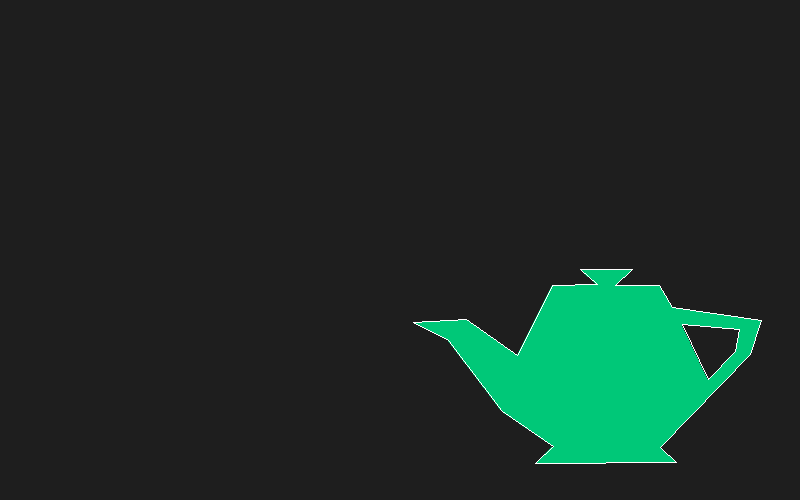
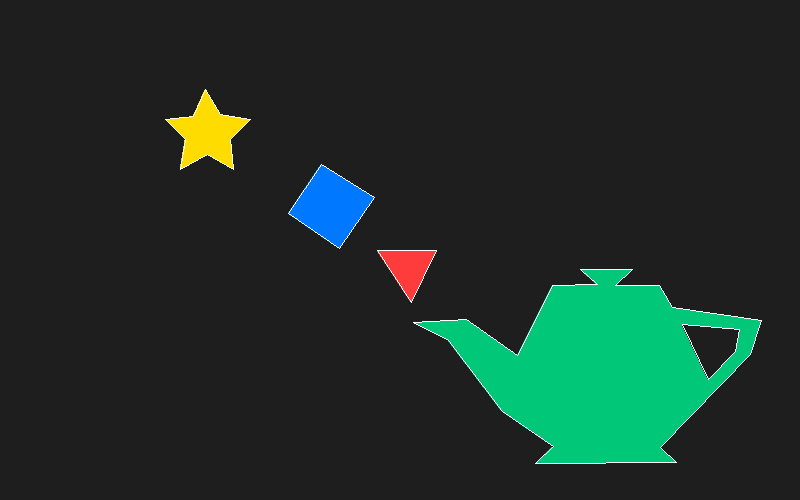
feat: Draw the five polygons together and export to out.bmp

Changed region(s): [[0.3438, 0.33, 0.4688, 0.51], [0.1875, 0.18, 0.3125, 0.33], [0.4688, 0.48, 0.5625, 0.6]]

diff --git a/src/main.rs b/src/main.rs
@@ -16,6 +16,47 @@ fn main() {
     framebuffer.set_background_color(bg);
     framebuffer.clear();
 
+    // Polygon 1
+    let p1: &[Vector2] = &[
+        Vector2::new(165.0, 380.0),
+        Vector2::new(185.0, 360.0),
+        Vector2::new(180.0, 330.0),
+        Vector2::new(207.0, 345.0),
+        Vector2::new(233.0, 330.0),
+        Vector2::new(230.0, 360.0),
+        Vector2::new(250.0, 380.0),
+        Vector2::new(220.0, 385.0),
+        Vector2::new(205.0, 410.0),
+        Vector2::new(193.0, 383.0),
+    ];
+    framebuffer.set_current_color(Color::new(255, 220, 0, 255));
+    fill_polygon(&mut framebuffer, p1);
+    framebuffer.set_current_color(Color::WHITE);
+    polygon(&mut framebuffer, p1);
+
+    // Polygon 2
+    let p2: &[Vector2] = &[
+        Vector2::new(321.0, 335.0),
+        Vector2::new(288.0, 286.0),
+        Vector2::new(339.0, 251.0),
+        Vector2::new(374.0, 302.0),
+    ];
+    framebuffer.set_current_color(Color::new(0, 120, 255, 255));
+    fill_polygon(&mut framebuffer, p2);
+    framebuffer.set_current_color(Color::WHITE);
+    polygon(&mut framebuffer, p2);
+
+    // Polygon 3
+    let p3: &[Vector2] = &[
+        Vector2::new(377.0, 249.0),
+        Vector2::new(411.0, 197.0),
+        Vector2::new(436.0, 249.0),
+    ];
+    framebuffer.set_current_color(Color::new(255, 60, 60, 255));
+    fill_polygon(&mut framebuffer, p3);
+    framebuffer.set_current_color(Color::WHITE);
+    polygon(&mut framebuffer, p3);
+
     // Polygon 4
     let p4: &[Vector2] = &[
         Vector2::new(413.0, 177.0),
@@ -55,7 +96,8 @@ fn main() {
     polygon(&mut framebuffer, p4);
     polygon(&mut framebuffer, p5);
 
+    framebuffer.render_to_file("out.bmp");
     framebuffer.render_to_png("out.png");
 
-    println!("Puntos dibujados en out.png");
+    println!("Poligonos dibujados en out.bmp y out.png");
 }